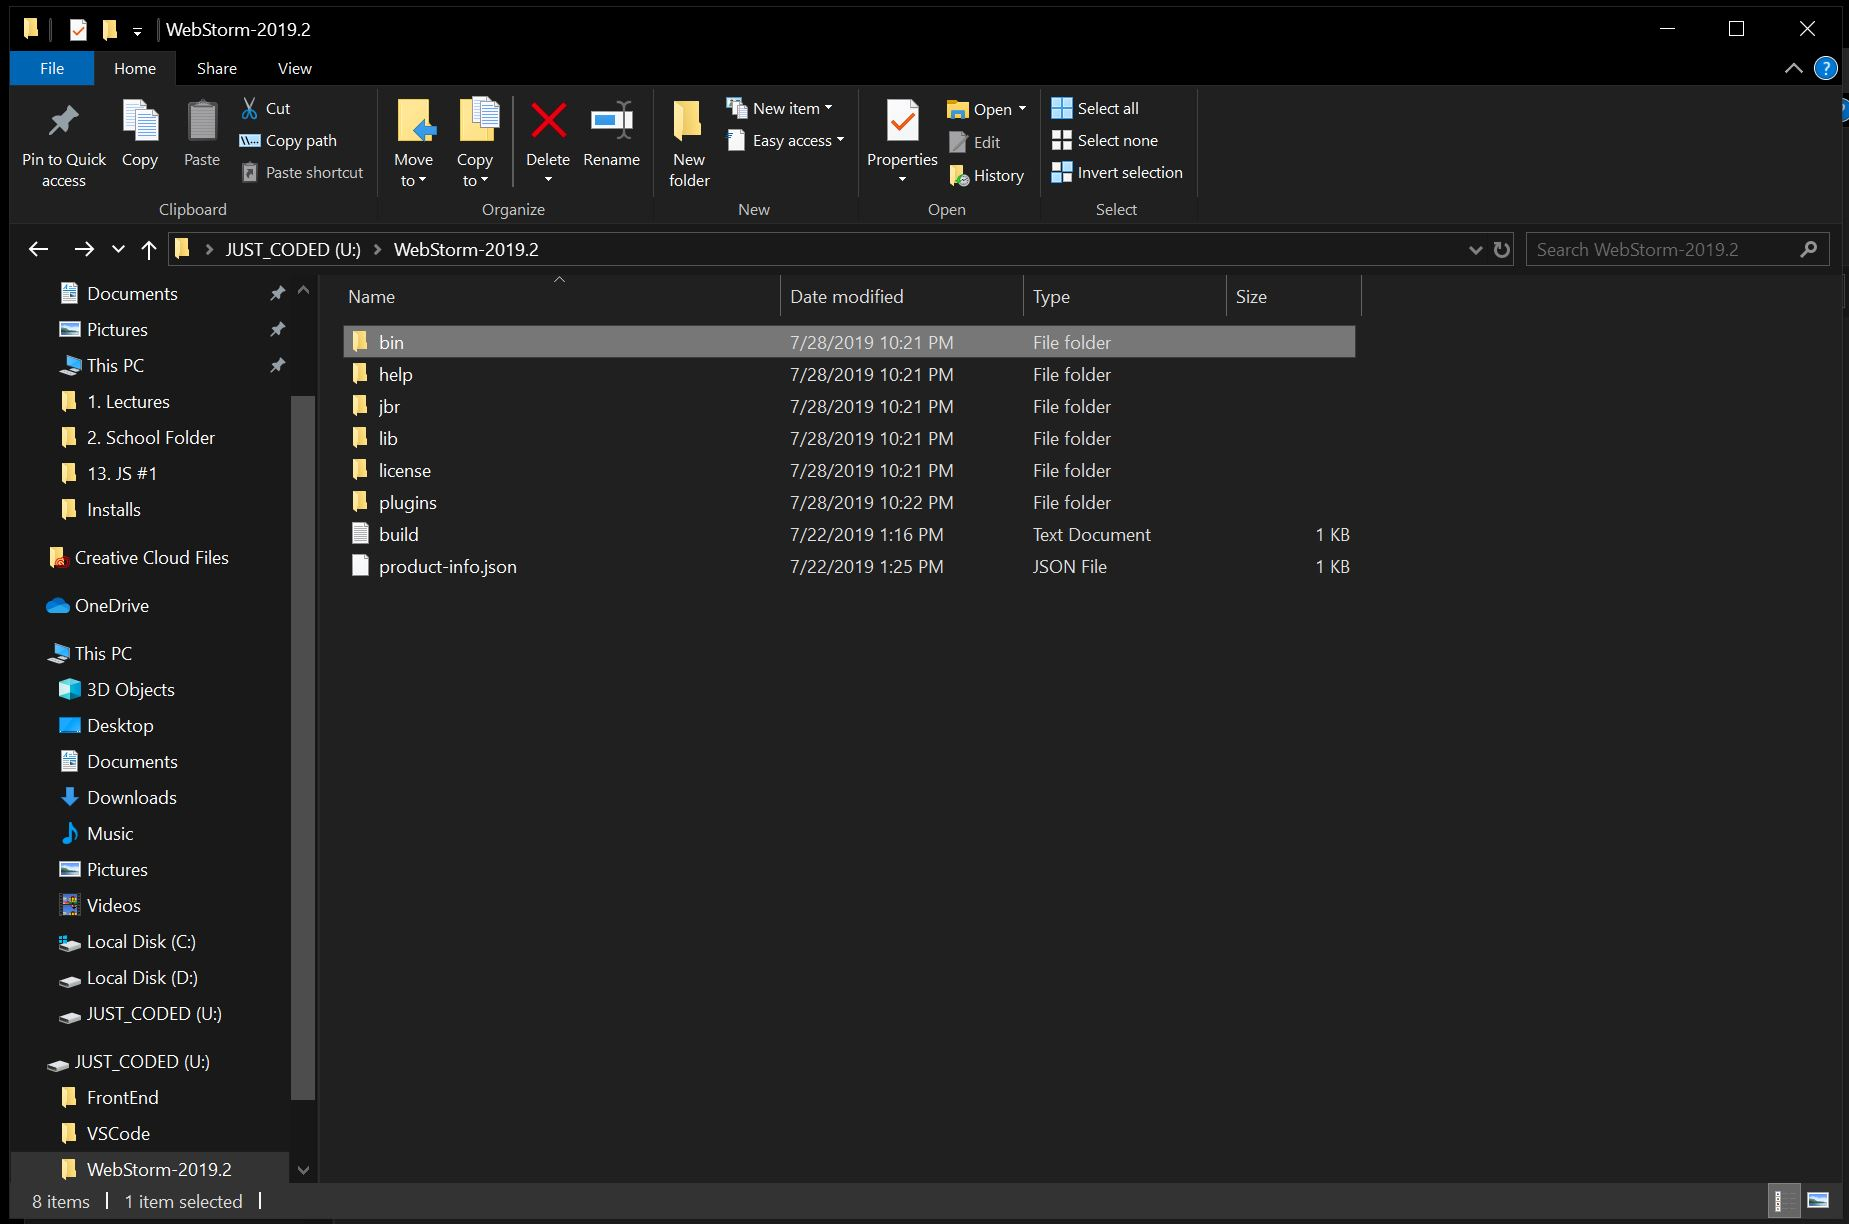
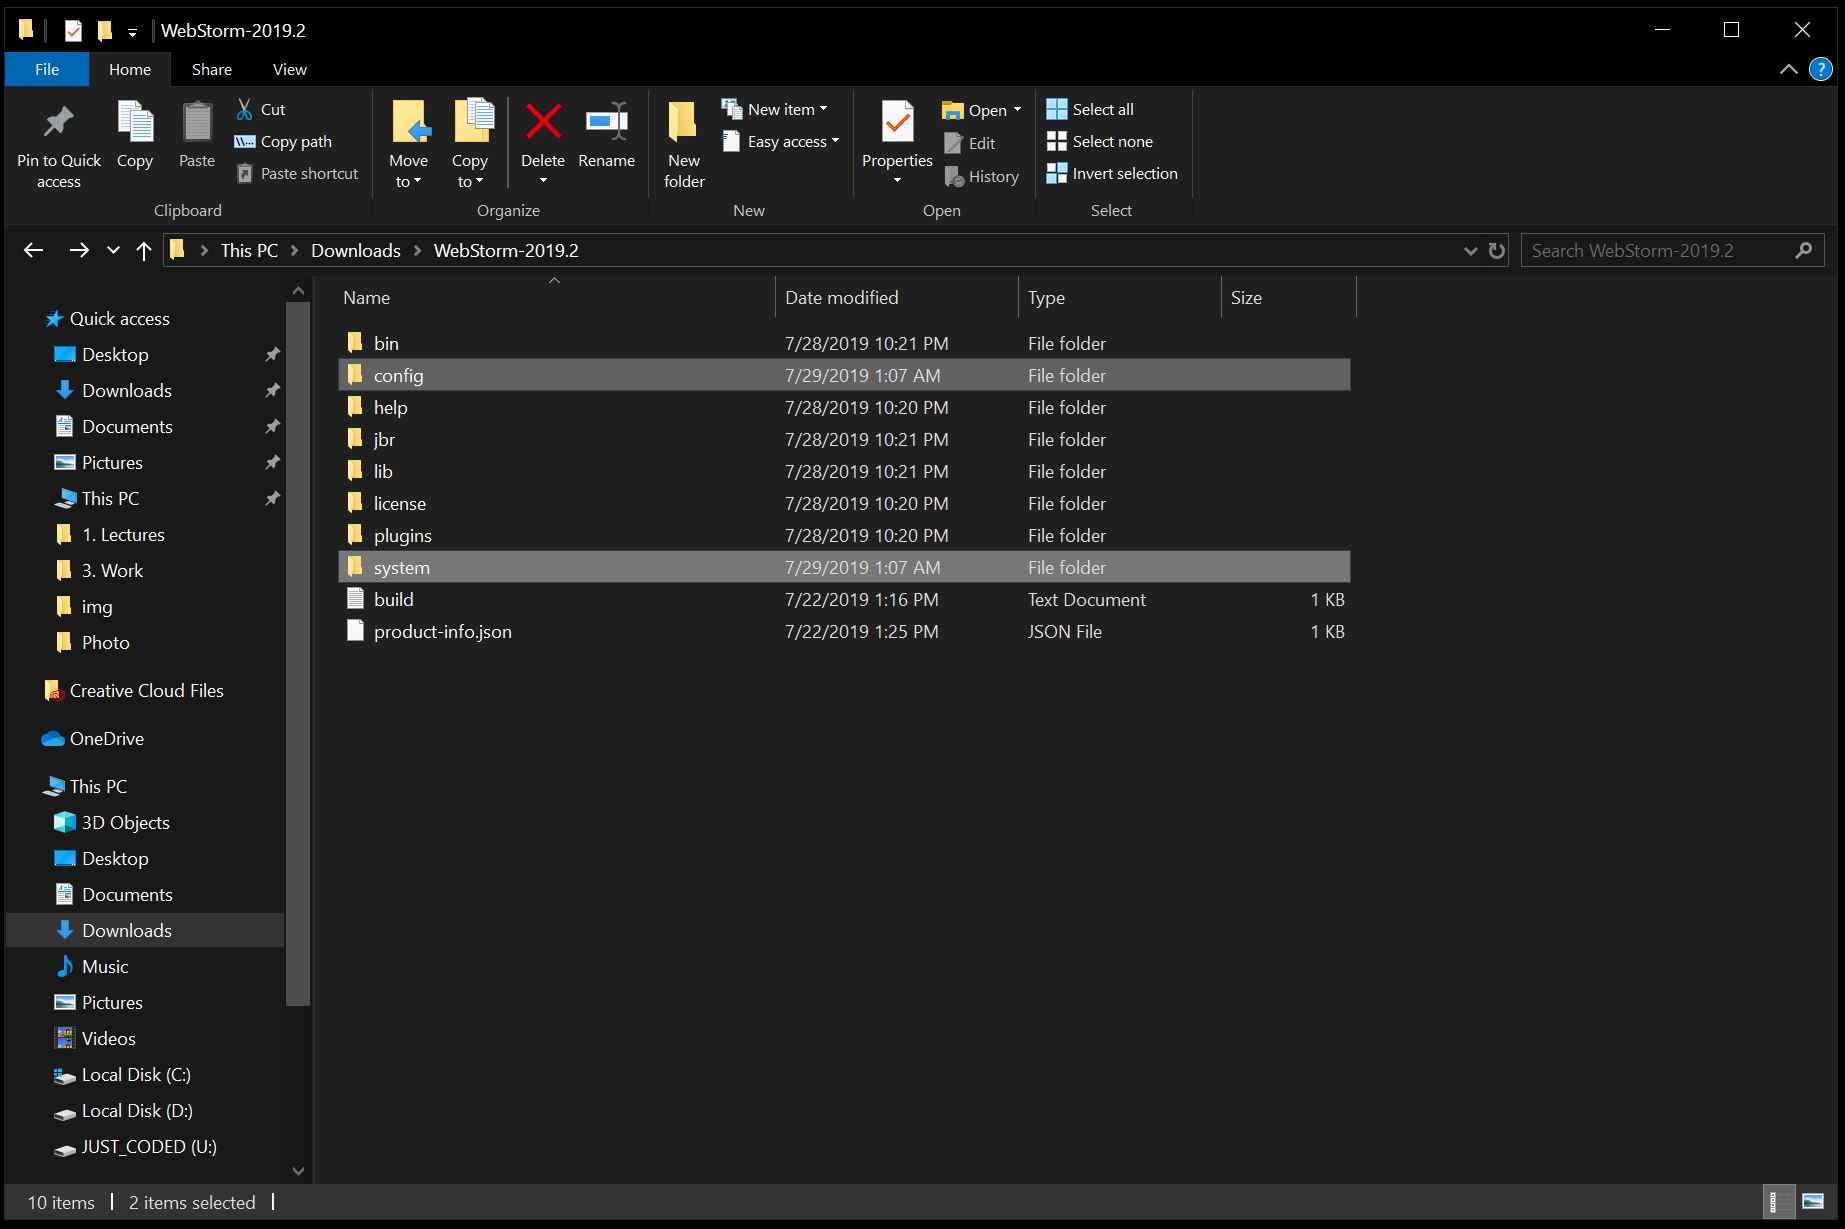
fixed the text

diff --git a/readme.md b/readme.md
@@ -9,7 +9,7 @@ https://www.7-zip.org/
 
 # 3. Заходим в полученную папку с программой
 
-* Удалите папку **./$PLUGINDIR**
+* Удалите папку **$PLUGINSDIR**
 
 > эта папка бесполезна
 
@@ -27,7 +27,7 @@ https://www.7-zip.org/
 
 ![Screenshot](https://github.com/MaksimBorovik/Guide-How-to-create-WebStorm-Portable/blob/master/img/1.JPG)
 
-на слудующие:
+на следующие:
 
 ```
 idea.config.path=${idea.home}/config
@@ -49,20 +49,19 @@ C:\Users\<USER ACCOUNT NAME>\.<PRODUCT><VERSION>
 
 > \<USER ACCOUNT NAME\> - имя пользователя ПК
 
-> .\<PRODUCT\>\<VERSION\> - папка WebStorm'а с пользовательскими настройками. С каждой новой версией её имя меняется. На момент написания данной инструкции папка именуется как .WebStorm2019.2
+> .\<PRODUCT\>\<VERSION\> - папка WebStorm'а с пользовательскими настройками. С каждой новой версией её имя меняется. На текущий момент папка именуется как .WebStorm2019.2
 
 ![Screenshot](https://github.com/MaksimBorovik/Guide-How-to-create-WebStorm-Portable/blob/master/img/3.JPG)
 
-* Копируем папки **config** и **system** в портативную версиею программы 
-```
-U:\WebStorm-2019.2
-```
+* Копируем папки **config** и **system** в портативную версию программы
 
 ![Screenshot](https://github.com/MaksimBorovik/Guide-How-to-create-WebStorm-Portable/blob/master/img/4.JPG)
 
 > Теперь все готово для копирования папки с программой на флешку
 
-# 5. Копируем папку с программой на флешку
+* Копируем папку с программой на флешку
+
+# 5. Запуск WebStorm с флешки
 
 * Чтобы запустить WebStorm нужно запустить файл **webstorm64.exe**, либо **webstorm.exe** (если у вас установлена 32-битая ОС), которые находятся в папке **bin**:
 
